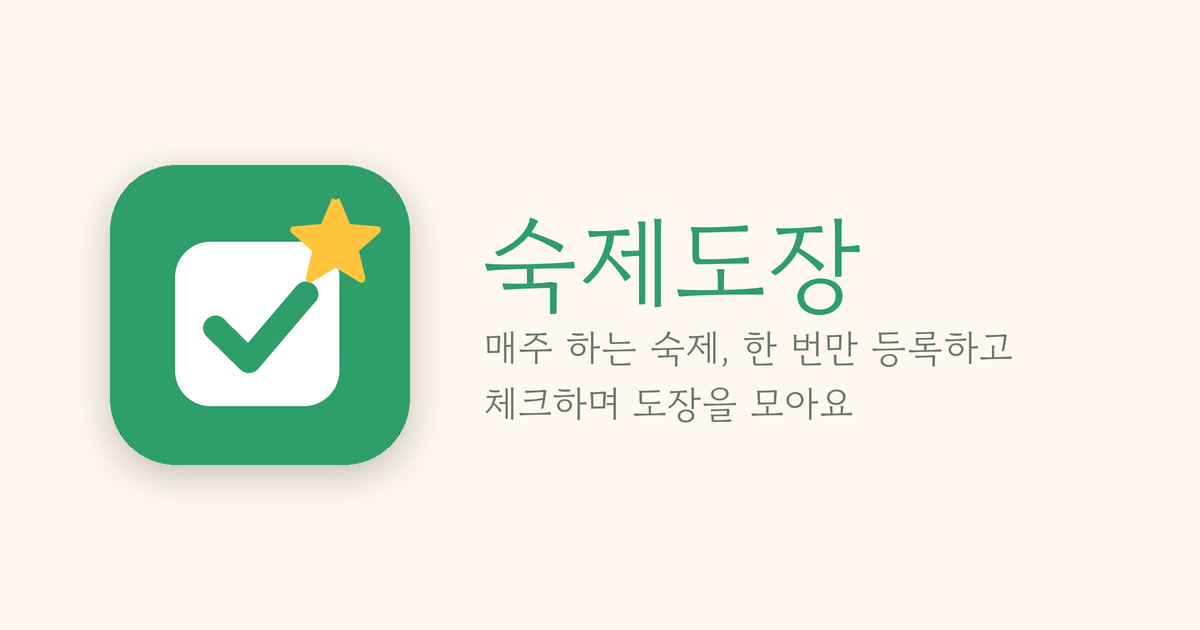
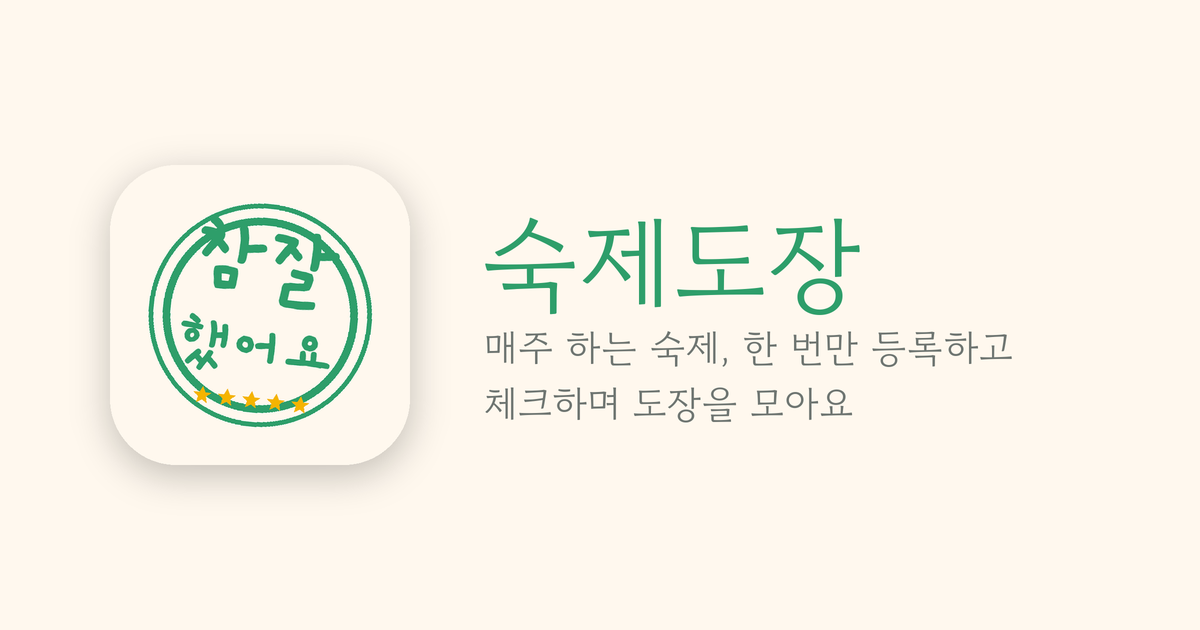
숙제도장 — 새 아이콘(손글씨 참잘했어요 도장)으로 웹 배포 (사용자 9/27)
Claude-Session: https://claude.ai/code/session_01BxeVCoVoLPr1Vwg1rLDzJd

Changed region(s): [[0.0925, 0.2413, 0.3392, 0.754]]

diff --git a/checkday/flutter_bootstrap.js b/checkday/flutter_bootstrap.js
@@ -37,6 +37,6 @@ _flutter.buildConfig = {"engineRevision":"83675ed27633283e7fc296c8bca22e841224c0
 
 _flutter.loader.load({
   serviceWorkerSettings: {
-    serviceWorkerVersion: "1486657926" /* Flutter's service worker is deprecated and will be removed in a future Flutter release. */
+    serviceWorkerVersion: "3870342953" /* Flutter's service worker is deprecated and will be removed in a future Flutter release. */
   }
 });
